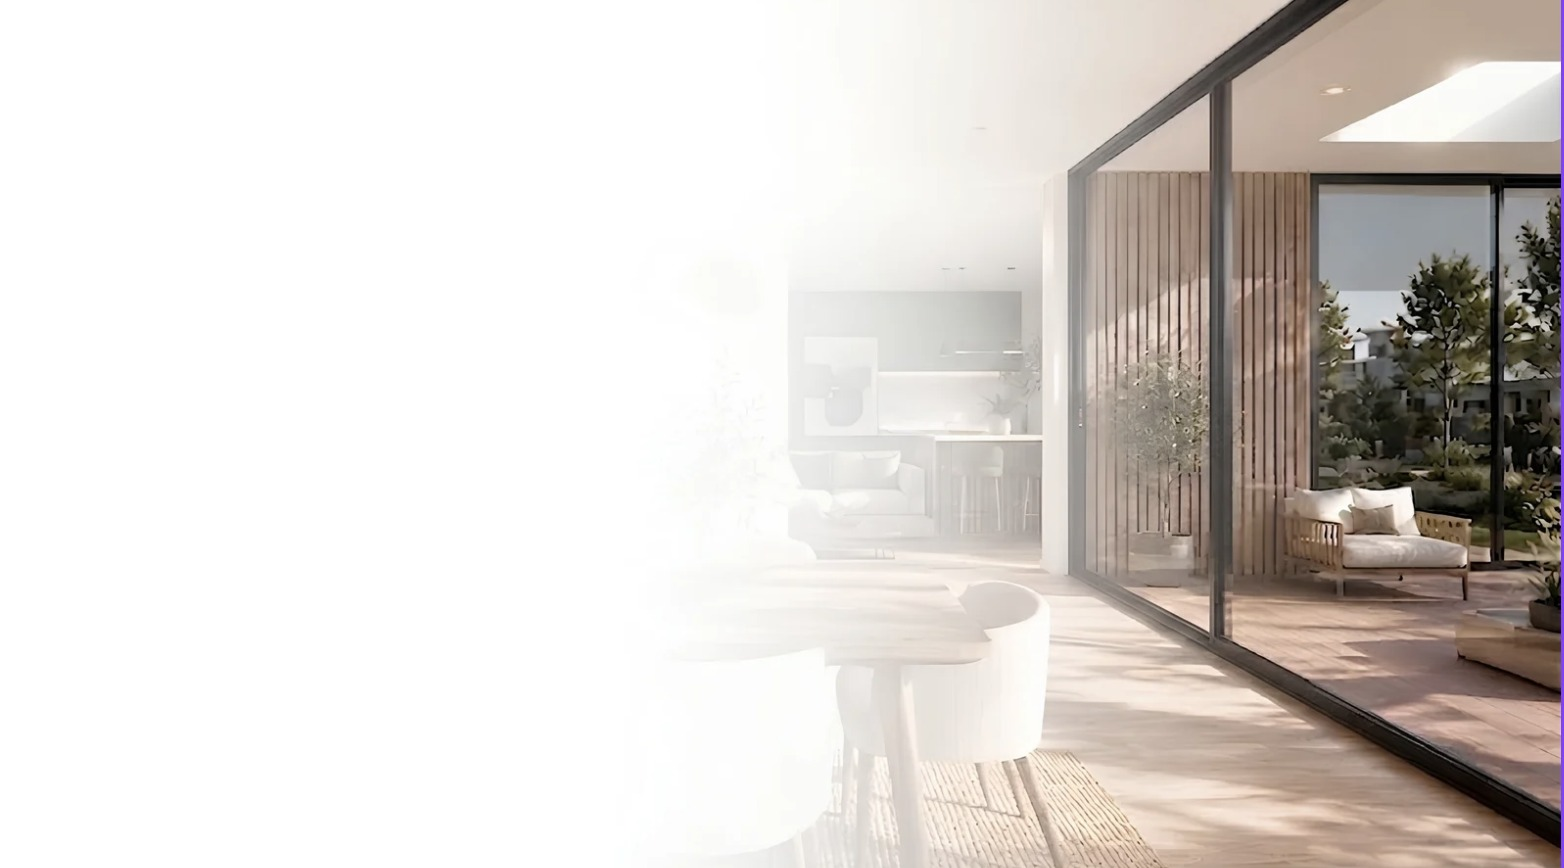
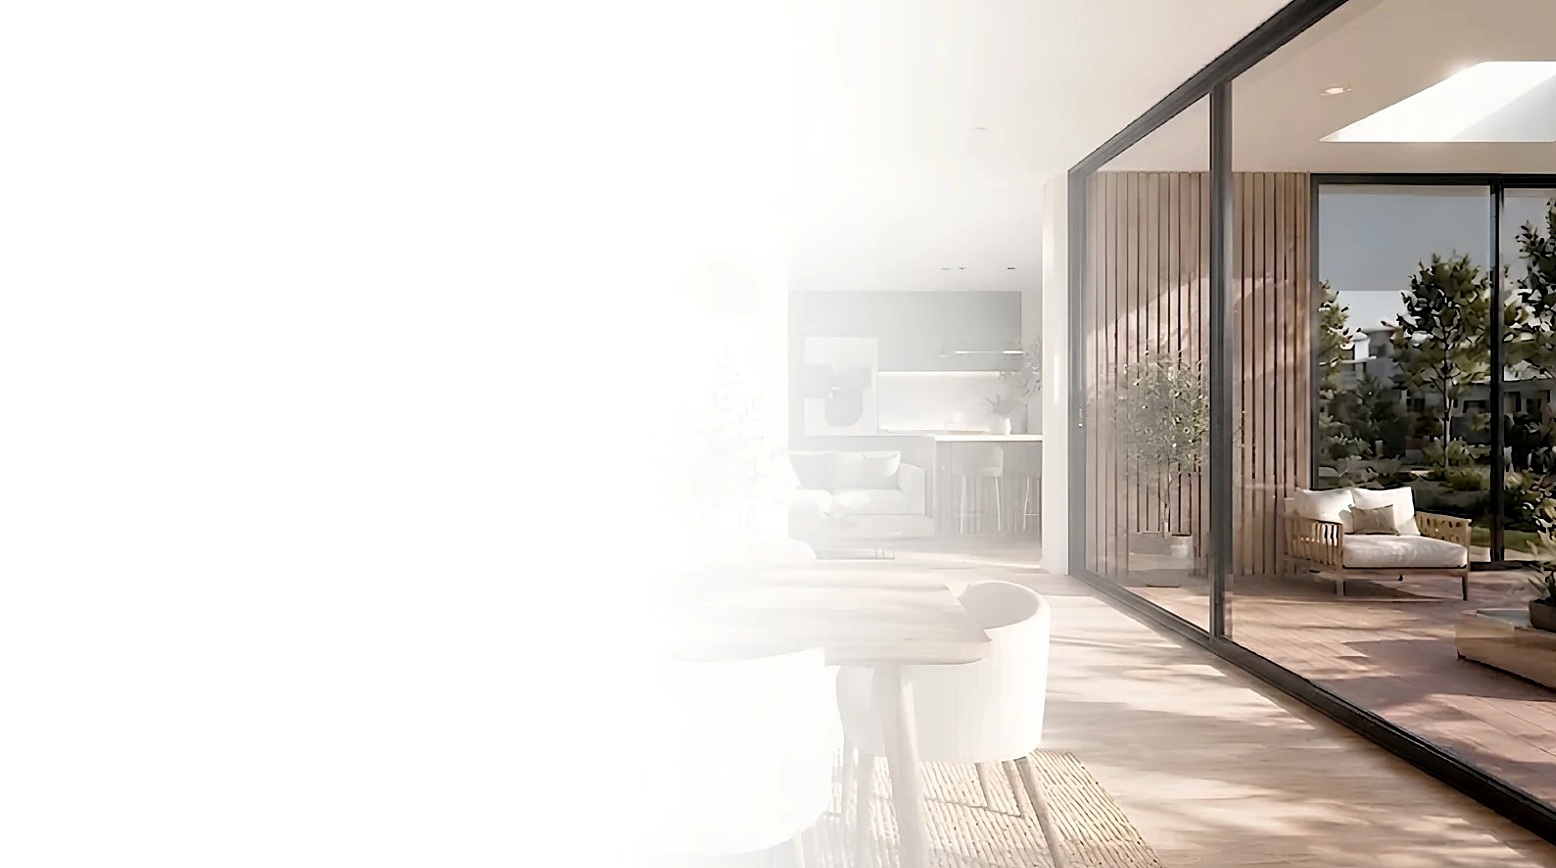
Fix hero image: remove purple edge artifact, sharpen, reveal image earlier in gradient

diff --git a/src/pages/Home.tsx b/src/pages/Home.tsx
@@ -186,7 +186,7 @@ export default function Home() {
       <div
         className="absolute inset-0 z-0"
         style={{
-          background: 'linear-gradient(90deg, rgba(255,255,255,1) 0%, rgba(255,255,255,1) 45%, rgba(255,255,255,0.7) 65%, rgba(255,255,255,0) 100%)'
+          background: 'linear-gradient(90deg, rgba(255,255,255,1) 0%, rgba(255,255,255,0.75) 20%, rgba(255,255,255,0.35) 42%, rgba(255,255,255,0) 65%)'
         }}
       ></div>
       {/* Top subtle fade for header readability over image parts */}
